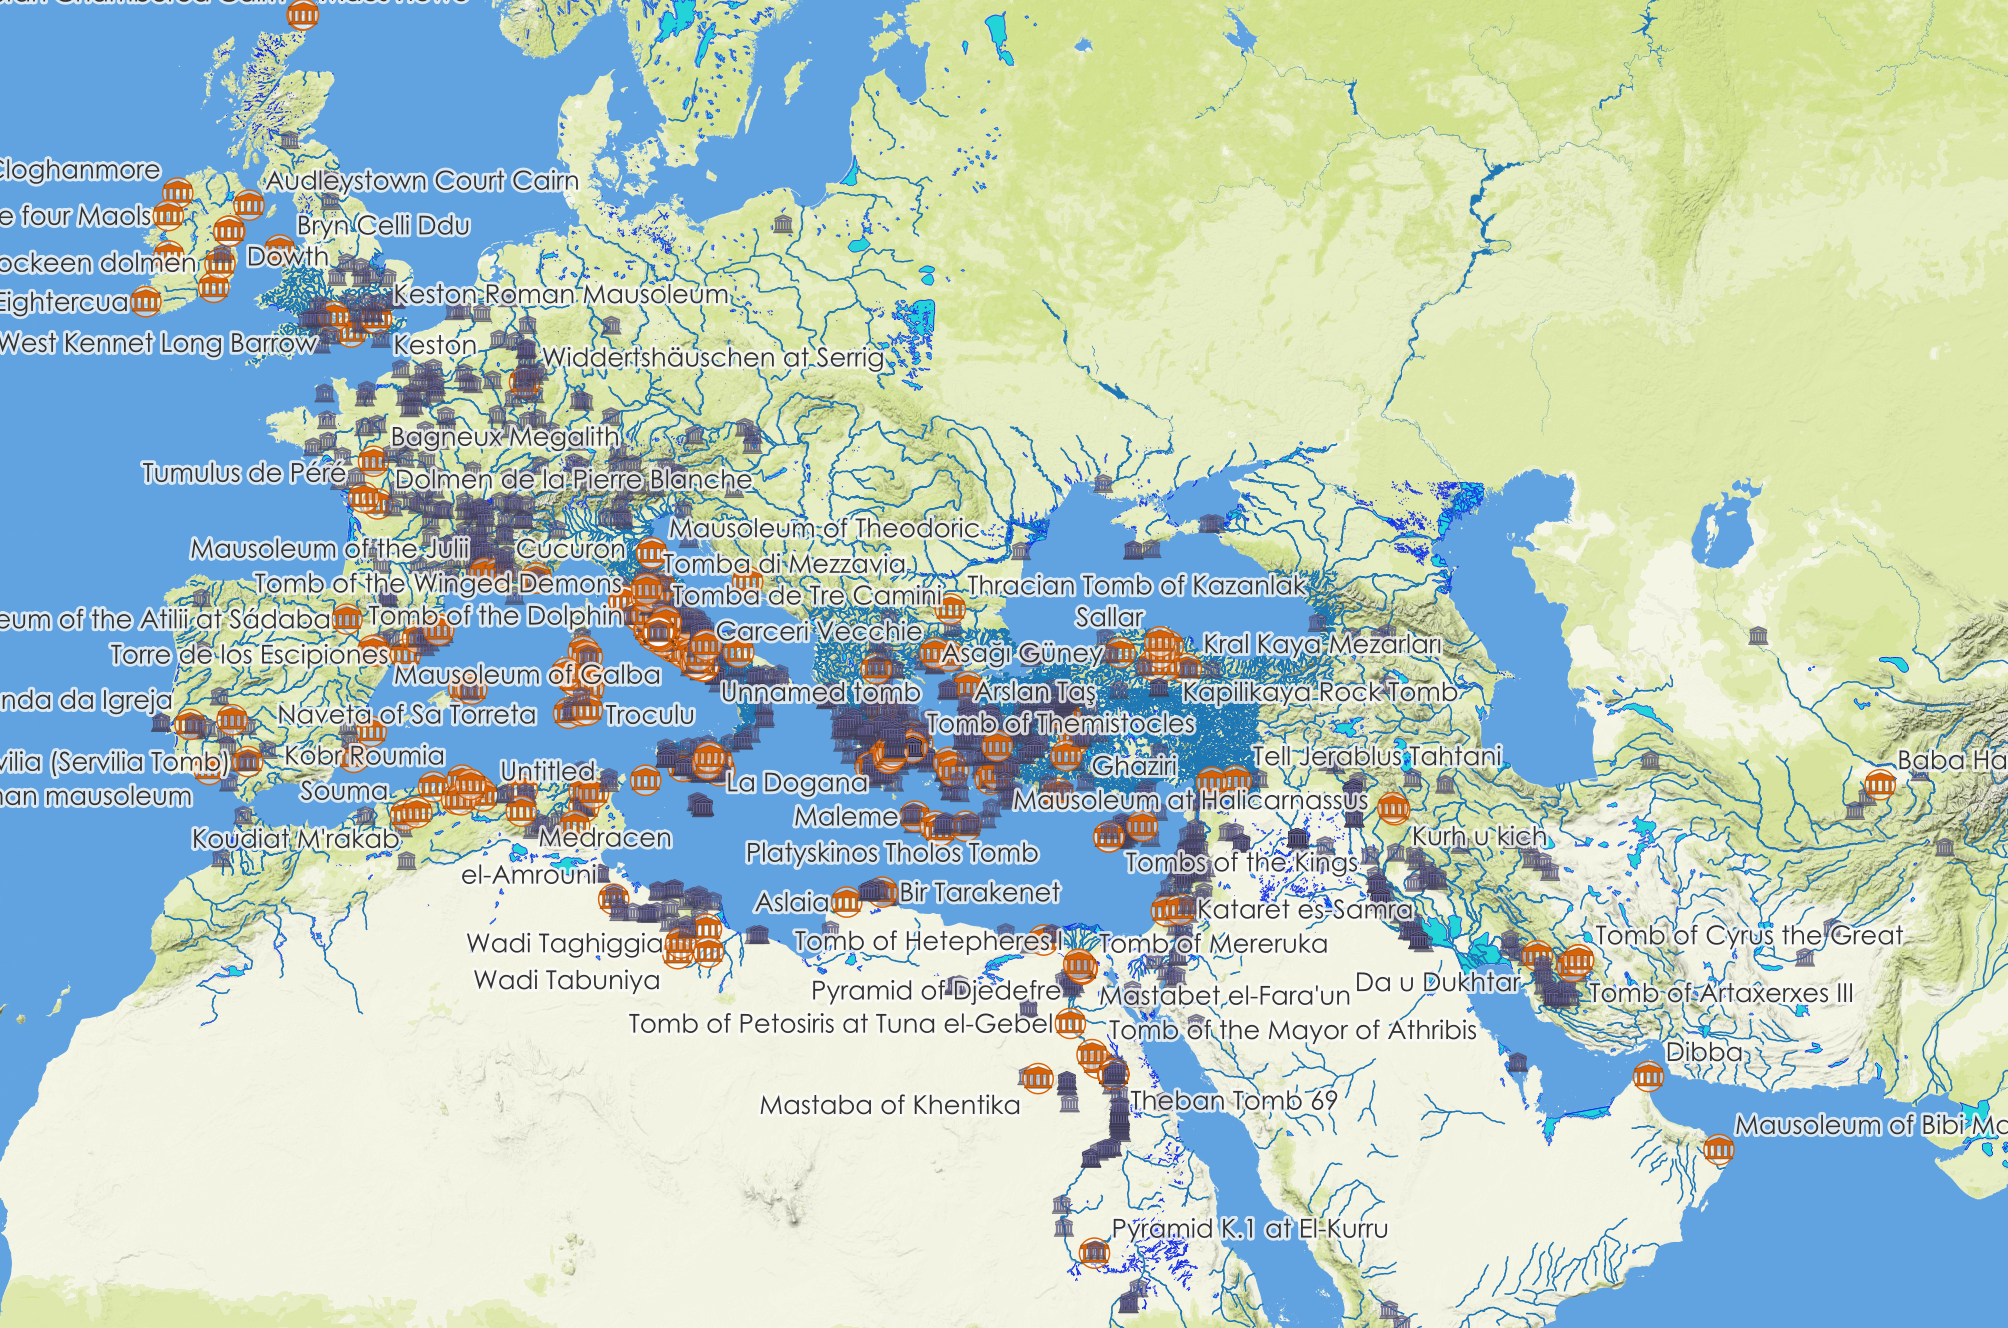
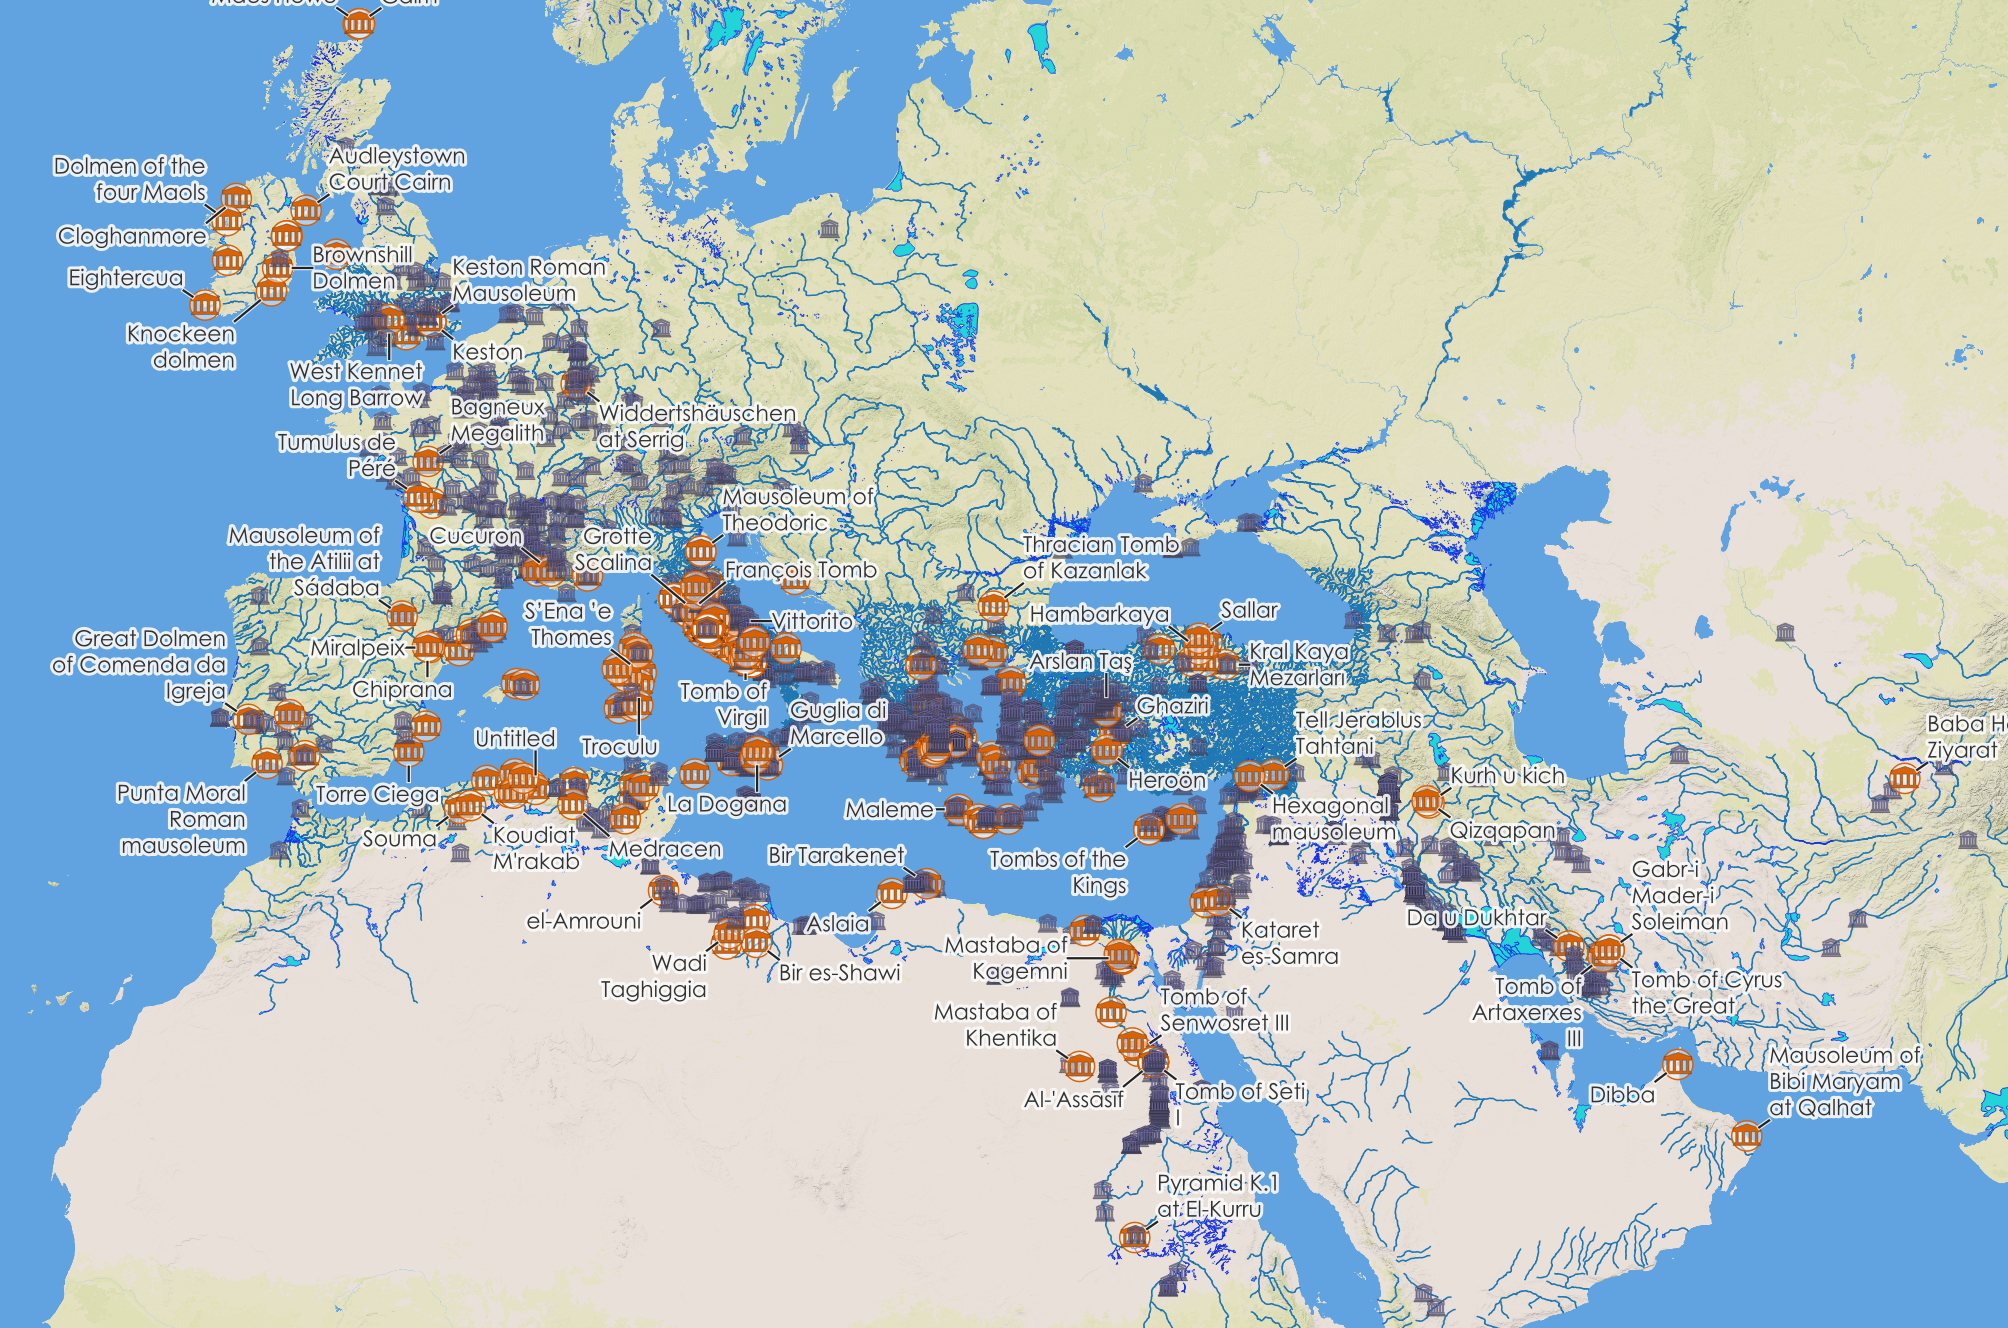
Tutorial #2: modified label instructions; added CRS section

diff --git a/tutorial_2.md b/tutorial_2.md
@@ -4,7 +4,7 @@
 In this tutorial, you will learn how to:
 - Apply customized colors and styles to features (points, lines, and polygons).
 - Add and style labels for features.
-- Set an appropriate map projection.
+- Set an appropriate map coordinate reference system.
 - Design a static map using Print Layout.
 
 ## Tutorial
@@ -196,15 +196,33 @@ In the previous part of the tutorial, we customized the fill and outline colors 
 
 1. Below the Lorem Ipsum text, make sure that ![text icon](images/qgis_icons/text.png) Text is highlighted in the lefthand menu. To the right of the menu, change the Font to any [sans-serif font](https://en.wikipedia.org/wiki/Sans-serif) that you find appealing (the default is Open Sans; you can leave that if you like).
 
+1. Set Size to 3mm (change Points to Millimeters in the dropdown menu).
+
 1. In the lefthand menu, select ![buffer icon](images/qgis_icons/labelbuffer.png) Buffer.
 
 1. Tick the 'Draw text buffer' box.
 
-1. Change Size to 0.75mm and Opacity to 80%.
+1. Change Size to 0.8mm and Opacity to 90%.
 
-    If you want to see the effect that these changes have, you can change the background color of the Text Sample box by clicking the color bar underneath it and choosing a color other than white.
+    If you want to see the effect that these changes will have, you can change the background color of the Text Sample box by clicking the color bar underneath it and choosing a color other than white. This allows you to see the preview more clearly.
 
-    We're not going to change the default placement of these labels, but select ![placement icon](images/qgis_icons/labelplacement.png) Placement in the lefthand menu and look at the various options that are available there, to get a sense of how you might be able to adjust your label placement as needed.
+1. Some of the names are very long. Select ![formatting icon](images/qgis_icons/labelformatting.png) Formatting in the lefthand menu, and scroll down to the 'Wrap lines to' field. Set it to 15 characters and ensure that Maximum line length is selected.
+
+1. Select ![placement icon](images/qgis_icons/labelplacement.png) Placement in the lefthand menu and set Distance to 1mm and Maximum distance to 5mm. Scroll down to Label Spacing and set it to 2mm.
+
+    Since our labels now may not be right next to our features (setting the maximum distance allows the label to move further away), we need to add some leader lines to show which label goes with which feature.
+
+1. Select ![callout icon](images/qgis_icons/labelcallout.png) Callouts in the lefthand menu, and check the box next to Draw callouts.
+
+1. Set Minimum length to 2.5mm, and set Offset from feature to 2mm.
+
+1. Click on the line in the Line style button and add a second simple line using the <kbd>![add line icon](images/qgis_icons/symbologyAdd.png)</kbd>.
+
+1. Select the lower of the two simple lines, and set its color to white (#ffffff) and its opacity to 80% following the same methods we used for setting symbol colors.
+
+1. Set the Stroke width to 6mm.
+
+1. Select the upper of the two simple lines and set its Stroke width to 3mm.
 
 1. Click <kbd>OK</kbd>
 
@@ -219,14 +237,100 @@ In the previous part of the tutorial, we customized the fill and outline colors 
     </figcaption>
     </figure>
 
+    There are many other aspects of the labels' appearance and placement that you can customize; for more complete information, refer to [the QGIS manual](https://docs.qgis.org/latest/en/docs/user_manual/style_library/label_settings.html). The main principles to be aware of are all to do with accessibility:
+    - use a sans-serif font
+    - don't use too small of a font size
+    - use buffering and/or backgrounds to aid legibility against complicated or multicolored backgrounds
+    
+    In aesthetic terms, you should always play around with your labels to see what looks best in the context of your map.
 
-### Setting the projection
 
+### Setting the coordinate reference system
 
+In order to decide what [coordinate reference system (CRS)](https://docs.qgis.org/latest/en/docs/gentle_gis_introduction/coordinate_reference_systems.html) we want to use for our map, we need to consider various aspects: how much and which part of the world we're dealing with; whether the map is for display, analysis, or travel; etc. In this case, the map is for display, and we're going to show most of the ancient Mediterranean. That means we'll be best served by a custom CRS, due to the large lateral extent of the Mediterranean, but first we'll learn how to apply an official CRS that's already stored in QGIS.
 
-1. 
+Currently our map is in EPSG:3857, or "Pseudo-Mercator," which is the standard CRS for all web maps; since the first layer we added was the basemap, which natively exists in that CRS, our map was automatically assigned that projection. (If we'd added our data first, by contrast, our map would currently be in EPSG:4326.)
+
+We can reproject our map into a different CRS. We'll start with an Equal Earth projection, which [replaced Mercator as the official UN standard](https://stuartdunn.blog/2026/09/07/projecting-emotions-mercator-and-equal-earth/) in 2026.
+
+1. Go to **Project menu > ![edit icon](images/qgis_icons/symbologyEdit.png) Properties** and choose ![CRS icon](images/qgis_icons/properties_crs.png) CRS in the lefthand menu.
+
+1. Under Predefined Coordinate Reference Systems, scroll down to ***Projected***, click on it to open it, and then scroll to *Equal Earth* and click on it to open it.
+
+1. Under *Equal Earth*, select WGS 84 / Equal Earth Greenwich, with the Authority ID EPSG:8857. Click <kbd>OK</kbd>.
+
+    <figure>
+
+    ![equal earth projection map](images/tutorial_2/equal_earth.png)
+
+    <figcaption>
+    <b>Equal Earth (Greenwich) projection.</b>
+    </figcaption>
+    </figure>
+
+    Equal Earth projections maintain an accurate *area* for all parts of the earth, but visually the features may look distorted. The most noticeable difference in the region of the ancient Mediterranean is the orientation of the Caspian Sea (now seemingly angled NW to SE, rather than running directly North-South), but Saudi Arabia and the visible portion of Africa have also lengthened somewhat.
+
+    All countries have one or more official Coordinate Reference Systems, which are used for mapping that country (or portions of it). Now we'll transform the map into the official CRS for Greece ("Greek Grid"), which perfectly preserves the shape of Greece.
+
+1. Open the CRS window again, and type 'Greek' into the Filter bar at the top. Choose GGRS87 / Greek Grid (EPSG:2100) from the results and click <kbd>OK</kbd>.
+
+    <figure>
+
+    ![Greek Grid map](images/tutorial_2/greek_grid_greece.png)
+
+    <figcaption>
+    <b>Greek Grid CRS.</b>
+    </figcaption>
+    </figure>
+
+    If we just want to show ancient (or modern) Greece, this is a great CRS to use. But if we want the entire Mediterranean, it doesn't work quite so well, and no other official CRS does a great job for that region, either. We'll create a custom CRS that's set for the parameters of our region of interest.
+
+1. In your web browser, visit [https://projectionwizard.org/](https://projectionwizard.org/).
+
+1. On the map, drag the corners of the box so that the left side is just west of Portugal, the top is just above the Sea of Azov (ancient Lake Maeotis), the right side is about halfway across the Caspian Sea, and the bottom is about halfway down Egypt. (You can zoom in on the map to make the selection easier.)
+
+1. Select the radio box under Distortion Property for Conformal.
+
+1. Under the line "Conformal projection for regional maps with an east-west extent," where it says Lambert Conformal Conic, click **WKT**, and copy the text in the box.
+
+1. In QGIS, go to **Settings menu > ![custom projections icon](images/qgis_icons/mActionCustomProjection.png) Custom Projections...**
+
+1. Click <kbd>![add new CRS icon](images/qgis_icons/symbologyAdd.png)</kbd>
+
+1. In the Name field, give your new CRS a name like "Lambert CC: Ancient Mediterranean".
+
+1. Under Definition, make sure that the Format is WKT (Recommended), and paste the text you copied from the Projection Wizard into the box. Click <kbd>OK</kbd>.
+
+1. Go to the Project Settings to set your CRS (note that QGIS has a shortcut to get to this screen: a button at the bottom right of the QGIS window, with the ![CRS icon](images/qgis_icons/mIconProjectionEnabled.png) symbol and your current CRS), and scroll to the very bottom of the Predefined Coordinate Reference Systems box. Under ***User-defined***, choose your newly-defined CRS and click <kbd>OK</kbd>.
+
+    <figure>
+
+    ![custom projection map](images/tutorial_2/custom_projection.png)
+
+    <figcaption>
+    <b>Custom Lambert Conformal Conic CRS for Mediterranean.</b>
+    </figcaption>
+    </figure>
+
+    If you scroll your map around the rest of the world, you will see that it is oddly angled and distorted, but the Mediterranean region looks "normal."
+    
+    Notice that not all of the Pleiades data is contained within the bounds of our custom CRS; if you wanted to include the data from India or Britain, for example, you would need to change the boundaries of your box in Projection Wizard and create a new custom CRS in QGIS. (You can create as many as you like; give them names that reflect their boundaries, as well as their projection.)
+
+1. Return your CRS to Pseudo-Mercator EPSG:3857.
 
 ### The print layout
+
+If we want to produce a static map for display (as part of a paper or poster, on a website, etc.), we need to compose a layout that includes the map exactly as we want it to look and various additional features, such as a legend, that allow an audience to read the map correctly.
+
+1. Go to **Project menu > ![new print layout icon](images/qgis_icons/mActionNewLayout.png) New Print Layout...**
+
+1. When prompted for a title, call it "tutorial 2 layout".
+
+1. Right-click on the blank page and choose 'Page Properties...'. In the Item Properties to the right of the layout, make sure that the Size is set to A4 and the Orientation is se to Landscape (these are usually the defaults; if not, you can change them in the dropdown menus).
+
+1. In the lefthand menu of the new layout, click ![add map icon](images/qgis_icons/mActionAddMap.png), and draw a box on the layout starting from about 1/3 down the page to near the bottom, and starting from near the left edge to about 3/4 of the way across the page. (You will next adjust the placement and size, so this is just approximate.)
+
+1. Click ![move item content icon](images/qgis_icons/mActionMoveItemContent.png) in the lefthand menu and then adjust the contents of the map by zooming and panning so that it shows approximately the same area that we defined for our custom projection. If you need to adjust the size of the box to better fit that area, click ![select/move item icon](images/qgis_icons/mActionSelect.png) in the lefthand menu and change the box size.
 
 1. 
 
